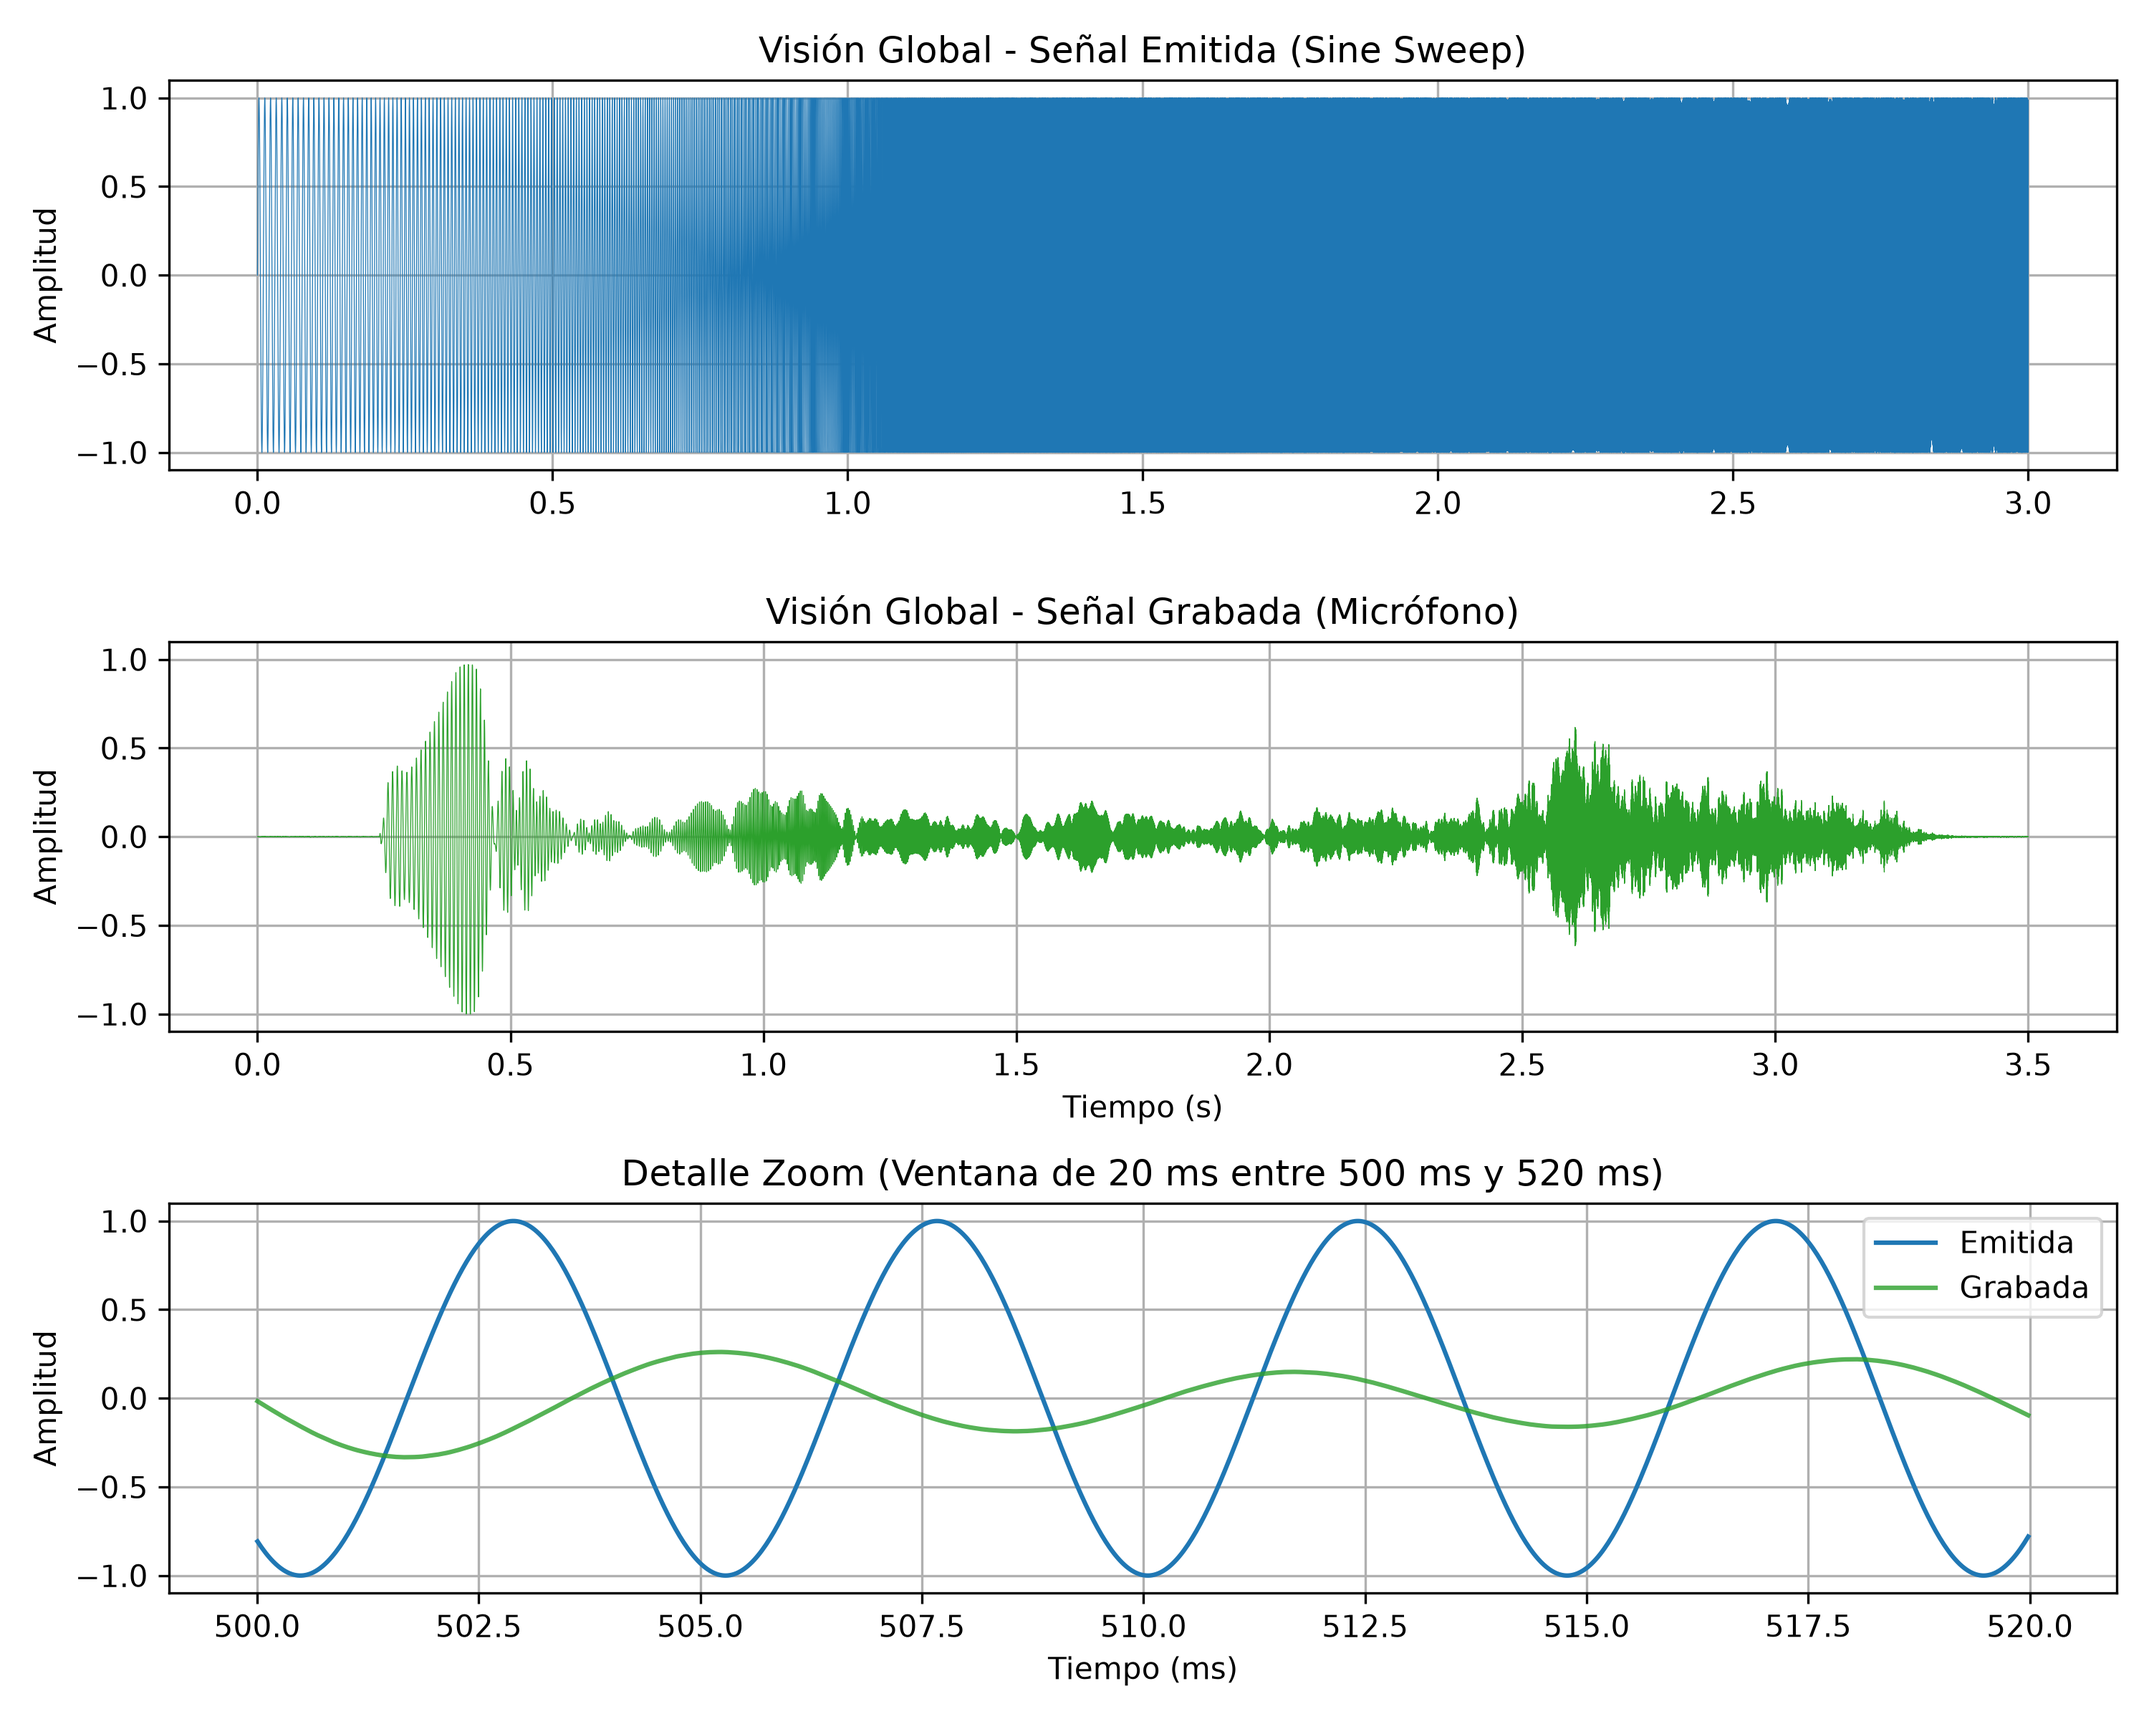
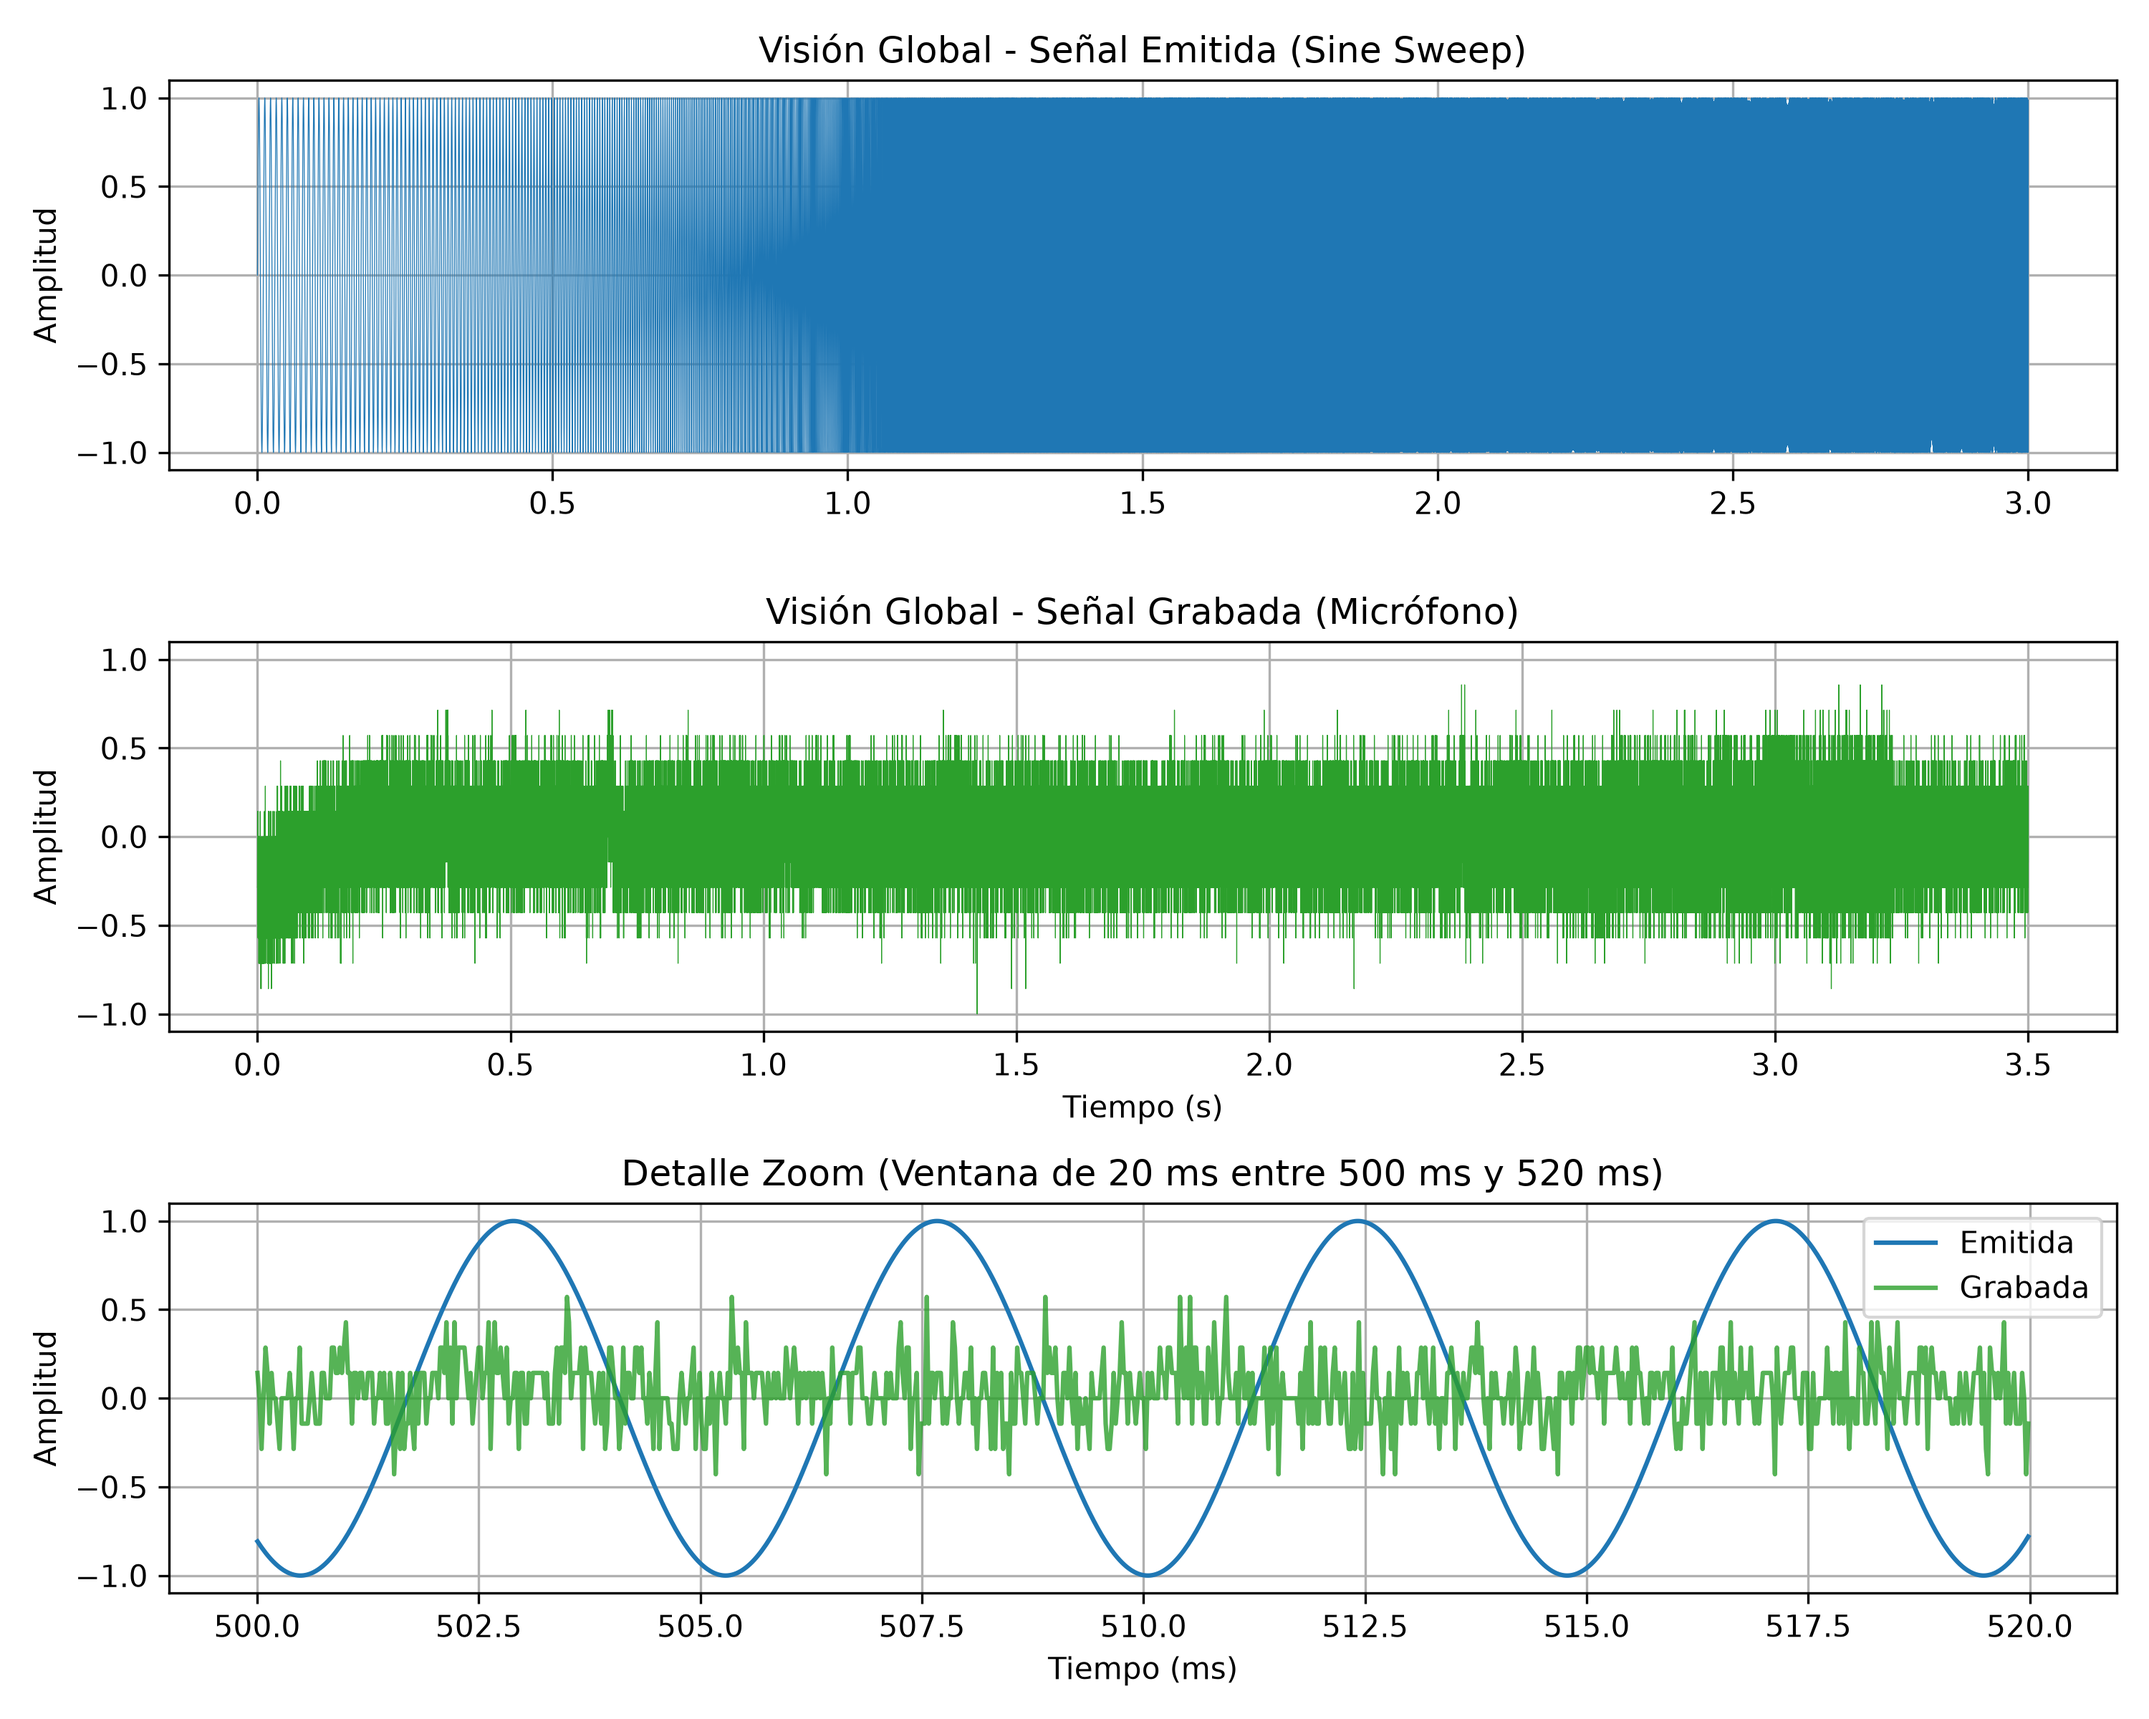
docs:pink_noise

Changed region(s): [[0.093, 0.4062, 0.961, 0.5625], [0.124, 0.75, 0.961, 0.8438]]

diff --git a/generate_evidences.py b/generate_evidences.py
@@ -2,9 +2,10 @@ import os
 
 import matplotlib.pyplot as plt
 import numpy as np
-from scipy.signal import fftconvolve, spectrogram
+from scipy.signal import fftconvolve, spectrogram, welch
 
 from app.services.audio_io import play_and_record
+from app.services.pink_noise import generate_pink_noise
 from app.services.sine_sweep import generate_sine_sweep_pair
 
 
@@ -87,9 +88,6 @@ def main() -> None:
     # ---------------------------------------------------------
     # 4. Pruebas de Reproducción y Grabación Simultánea (Servicio 3)
     # ---------------------------------------------------------
-    # ---------------------------------------------------------
-    # 4. Pruebas de Reproducción y Grabación Simultánea (Servicio 3)
-    # ---------------------------------------------------------
     test_duration = 3.0
     sweep_test, _ = generate_sine_sweep_pair(duration=test_duration, f1=100.0, f2=8000.0, fs=fs)
 
@@ -111,7 +109,7 @@ def main() -> None:
 
     plt.figure(figsize=(10, 8))
 
-    # 1. Vista Global: Señal Emitida vs Grabada
+    # 4.1. Vista Global: Señal Emitida vs Grabada
     plt.subplot(3, 1, 1)
     plt.plot(t_emit, sweep_norm, color="#1f77b4", linewidth=0.3, label="Emitida")
     plt.title("Visión Global - Señal Emitida (Sine Sweep)")
@@ -127,7 +125,7 @@ def main() -> None:
     plt.ylim(-1.1, 1.1)
     plt.grid(True)
 
-    # 2. Detalle Zoom: 20 ms alrededor de t = 0.5 s para ver la senoidal
+    # 4.2. Detalle Zoom: 20 ms alrededor de t = 0.5 s para ver la senoidal
     t_start, t_end = 0.50, 0.52  # Ventana de 20 ms
     mask_emit = (t_emit >= t_start) & (t_emit <= t_end)
     mask_rec = (t_rec >= t_start) & (t_rec <= t_end)
@@ -160,6 +158,60 @@ def main() -> None:
     plt.savefig("docs/m1/prueba_grabacion.png", dpi=300)
     plt.close()
     print("✔ Creado: docs/m1/prueba_grabacion.png")
+
+    # ---------------------------------------------------------
+    # 5. Espectro del Ruido Rosa (-3 dB / octava)
+    # ---------------------------------------------------------
+    print("📈 Generando gráfica de espectro para Ruido Rosa...")
+
+    # Generamos 10 segundos para tener buena resolución estadística
+    ruido_rosa = generate_pink_noise(duration=10.0, fs=fs)
+
+    # Calculamos la Densidad Espectral de Potencia (PSD) usando el método de Welch
+    f, pxx = welch(ruido_rosa, fs=fs, nperseg=8192)
+
+    # Trabajamos en escala logarítmica para dB
+    pxx_db = 10 * np.log10(pxx + 1e-10)
+
+    # Filtramos la banda de interés solicitada por la cátedra (100 Hz a 10 kHz)
+    banda = (f >= 100) & (f <= 10000)
+    f_banda = f[banda]
+    pxx_db_banda = pxx_db[banda]
+
+    # Calculamos la pendiente (dB/octava) usando el logaritmo en base 2 de la frecuencia
+    pendiente, ordenada = np.polyfit(np.log2(f_banda), pxx_db_banda, 1)
+
+    # Configuramos la gráfica
+    plt.figure(figsize=(10, 6))
+
+    # Graficamos el espectro real (con semilogx para que el eje X sea logarítmico)
+    plt.semilogx(f, pxx_db, color="#1f77b4", alpha=0.7, label="PSD de la señal generada")
+
+    # Graficamos la línea de tendencia ideal obtenida de la regresión
+    f_tendencia = np.linspace(100, 10000, 200)
+    linea_tendencia = pendiente * np.log2(f_tendencia) + ordenada
+    plt.semilogx(
+        f_tendencia,
+        linea_tendencia,
+        color="#d62728",
+        linewidth=2.5,
+        linestyle="--",
+        label=f"Regresión (Pendiente: {pendiente:.2f} dB/oct)",
+    )
+
+    # Formateo visual
+    plt.xlim(20, 22050)
+    plt.ylim(np.max(pxx_db) - 50, np.max(pxx_db) + 10)
+    plt.xlabel("Frecuencia (Hz)")
+    plt.ylabel("Densidad Espectral de Potencia (dB/Hz)")
+    plt.title("Validación Espectral de Ruido Rosa (Algoritmo Voss-McCartney)")
+    plt.legend(loc="upper right")
+    plt.grid(True, which="both", linestyle="--", alpha=0.5)
+
+    plt.tight_layout()
+    plt.savefig("docs/m1/espectro_ruido_rosa.png", dpi=300)
+    plt.close()
+    print("✔ Creado: docs/m1/espectro_ruido_rosa.png")
 
 
 if __name__ == "__main__":

diff --git a/AI_LOG.md b/AI_LOG.md
@@ -43,3 +43,11 @@
 * **Prompt:** Solicitud para generar comandos `curl` actualizados y precisos, a partir de `main.py` y `signals.py`, extrayendo los nombres de los endpoints, las rutas correctas (`/api/v1/...`) y la estructura de los *schemas*.
 * **Fragmento de código generado:** Se generaron cuatro bloques de comandos `curl`. Se destacó la diferencia entre peticiones JSON (`application/json`) y la subida de archivos físicos (`multipart/form-data` usando `-F 'file=@ruta'`).
 * **Modificaciones:** Se añadió el sonido "THX Sound" en `tests/data` para validar el funcionamiento del filtro pasabanda. Los comandos fueron revisados para asegurar que los nombres de las variables coincidan exactamente con la implementación del código y que el formato del curl esté correctamente expresado en markdown.
+
+### Validación Gráfica del Ruido Rosa (`generate_evidences.py`)
+* **Fecha:** 2026-11-02
+* **Herramienta:** Gemini
+* **Problema:** Se necesitaba generar la evidencia visual para M1 que demostrara matemáticamente que el algoritmo de Voss-McCartney implementado produce un ruido rosa con la caída espectral correcta (aproximadamente -3 dB/octava).
+* **Prompt:** Solicitud para crear un bloque de código en Python que calcule y grafique el espectro del ruido rosa con su respectiva pendiente de regresión, para integrarlo al script existente `generate_evidences.py` y guardar la imagen en `docs/m1`.
+* **Fragmento de código generado:** Se proporcionó un bloque de código que utiliza `scipy.signal.welch` para calcular la Densidad Espectral de Potencia (PSD) y `np.polyfit` para realizar la regresión lineal entre las frecuencias de 100 Hz y 10 kHz. Se utilizó `matplotlib` con ejes semilogarítmicos (`semilogx`) para trazar la señal generada frente a la línea de tendencia ideal.
+* **Modificaciones:** Al integrar el código generado, se detectó una discrepancia en los argumentos (el código generado usaba `sample_rate`, pero la función original esperaba `fs`). Se corrigió el argumento manualmente a `fs=fs` para evitar un `TypeError`. Posteriormente, se ejecutó exitosamente el script aislando las dependencias mediante el comando `uv run python`.

diff --git a/README.md b/README.md
@@ -316,6 +316,9 @@ o con un archivo `.env` en la raiz (ignorado por git).
 ### Prueba de Reproducción y Grabación Simultánea
 ![Prueba de Grabación Real](docs/m1/prueba_grabacion.png)
 
+### Espectro del Ruido Rosa (-3 dB/octava)
+![Espectro Ruido Rosa](docs/m1/espectro_ruido_rosa.png)
+
 ## Evidencias de Validación - Milestone 2
 
 ### Endpoints Integrados
